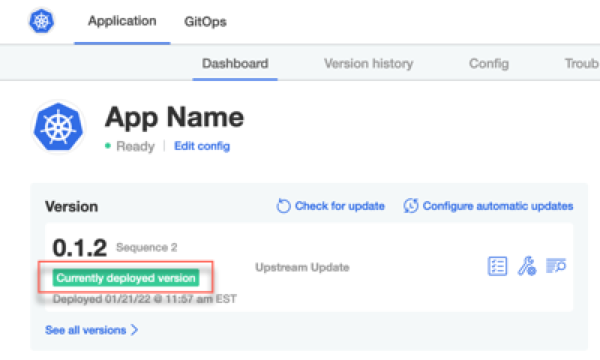
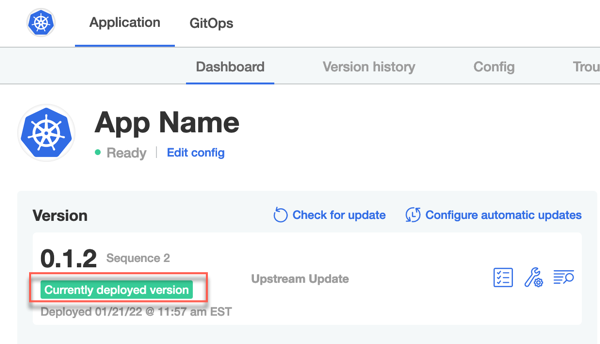
Edits

diff --git a/content/kotsadm/updating/updating-kots-apps.md b/content/kotsadm/updating/updating-kots-apps.md
@@ -40,10 +40,8 @@ Preflight failures and warnings do not preclude the upgrade to a new version.
 The installer may elect to ignore these failures and proceed with the upgrade.
 
 ### Updating
-An update is performed by clicking "Continue" on the preflight checks page, or by clicking the "Deploy" button on the "Version History" tab.
-At this point, the current cluster will be updated to the new version of the KOTS application and the "Deployed" status will be set on that version.
-
-[![Updated Version](/images/version-history.png)](/images/version-history.png)
+An update is performed by clicking the "Deploy" button on the "Version History" tab.
+At this point, the current cluster will be updated to the new version of the KOTS application and the "Currently deployed version" status will be set on that version.
 
 ## Using CLI
 
